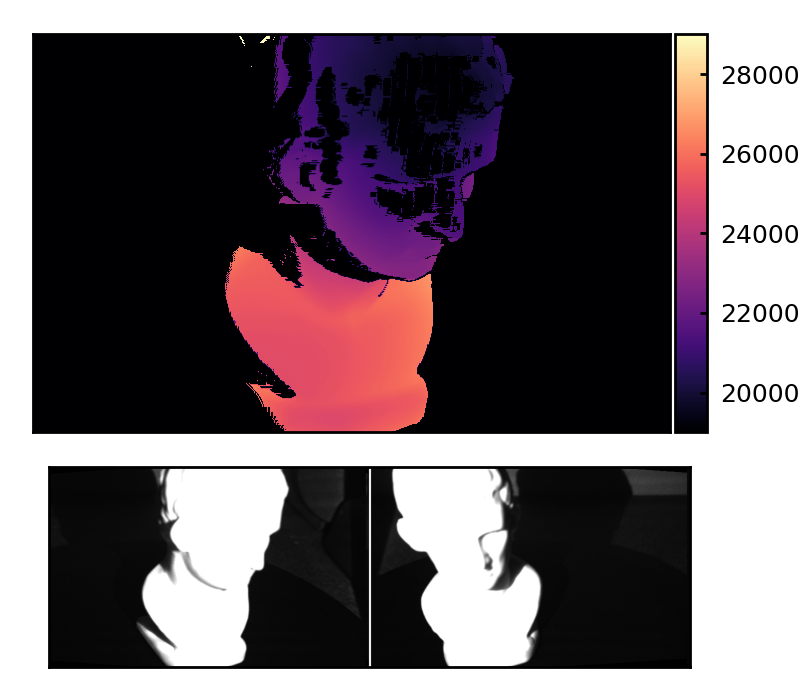
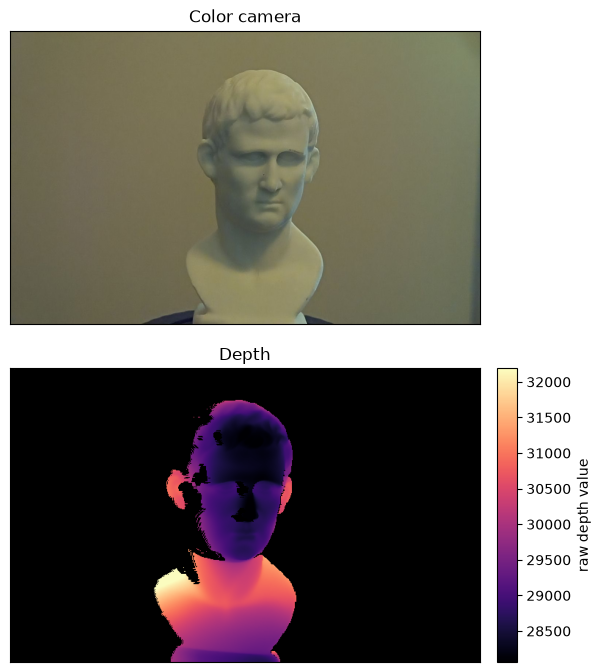
Update README for color over WiFi, with a new depth + color figure
The README figure is now a depth image and the color image captured at the
same time, both over WiFi, made by examples/readme_figure.py. The sample
usage shows that capture, and the text no longer says color needs USB.

- Default exposure is 12000 in the sample and the figure script; 6000 is
  too dark for this scene (most frames had no depth).
- Known Issues: ~4Hz depth and color rate and why, projector on during
  color capture, color auto-exposure settling, warm-light color cast, and
  raw depth values.
- Power supply note, and OpenCV/matplotlib listed as optional.

diff --git a/examples/readme_figure.py b/examples/readme_figure.py
@@ -83,7 +83,7 @@ def make_figure(depth, color, fname):
 if (__name__ == "__main__"):
     parser = argparse.ArgumentParser(description = "Capture the README depth + color figure.")
     parser.add_argument("--ip", required = True, help = "Scanner IP address.")
-    parser.add_argument("--exposure", type = int, default = 6000, help = "Depth exposure (default 6000).")
+    parser.add_argument("--exposure", type = int, default = 12000, help = "Depth exposure (default 12000).")
     parser.add_argument("--frames", type = int, default = 8, help = "Depth frames to choose from (default 8).")
     parser.add_argument("--out", default = "images/image.png", help = "Output file (default images/image.png).")
     args = parser.parse_args()

diff --git a/README.md b/README.md
@@ -1,17 +1,26 @@
 ## revoscan-python ##
-![depth image](images/image.png?raw=true "")
+![depth and color images](images/image.png?raw=true "")
 
-A python module for interfacing with a Revopoint scanner. It should work on any OS
-as all communcation with the scanner happens via HTTP.
+A python module for interfacing with a Revopoint scanner. Depth images, color
+images, exposure and gain are all handled over WIFI via HTTP, which should work on
+any OS.
 
 The scanner should be powered on and connected to WIFI. In general it is easier to
 configure the scanner to join your WIFI network instead of being it's own network.
 You can do this in the Revoscan software by setting the scanner to be a client.
+The scanner draws more power while scanning, if it reboots when a scan starts try
+a USB power supply that is rated for more current.
 
-The code has been tested with Python3.10 and Revopoint MINI scanner running v7.6.9.0816.
+The code has been tested with Python3.10 / Python3.12 and Revopoint MINI scanner running v7.6.9.0816.
 
 ## Sample Usage ##
+
+This captures a depth image and the corresponding color image, as in the figure
+above. [examples/readme_figure.py](examples/readme_figure.py) is the script that
+made the figure.
+
 ```
+import numpy
 import revopoint_python.revopoint as rppy
 
 rp = rppy.Revopoint(ipAddr = "192.168.1.14")
@@ -19,23 +28,51 @@ rp = rppy.Revopoint(ipAddr = "192.168.1.14")
 # get firmware(?) version.
 print(rp.get_version())
 
+# close any stream left open by an earlier session.
+rp.close_streams()
+
 # configure for MINI.
 rp.config_MINI()
 
-# set the gain of the depth camera.
+# set the gain and a manual exposure for the depth cameras. The exposure is the
+# main depth-quality setting, ~3000-15000 is a good starting range.
 rp.set_depth_gain(1)
+rp.set_exposure(12000)
 
-# acquire two depth images, this returns a dictionary with the
-# depth images and the images from the depth cameras.
-images = rp.get_images(2)
+# acquire eight depth images and the color camera images at the same time,
+# this returns a dictionary with the depth images, the images from the depth
+# cameras and the color images. The scanner cycles through several exposure
+# states so some depth frames are sparse, keep the one with the most valid
+# pixels.
+images = rp.get_images(8, color = True)
+depth = max(images["depth"], key = numpy.count_nonzero)
+color = images["color"][-1]
+rp.close_streams()
+
+# return exposure control to the scanner.
+rp.set_auto_exposure(True)
 ```
+
+To capture only color images use `rp.get_color_image()`. This can also read the
+color camera over USB (`usb = True`, Linux only).
 
 ## Known Issues ##
 
-* The scan rate is well below 10Hz.
-* The images from the color USB camera are not available.
+* The scan rate is about 4Hz, well below 10Hz. It is limited by how long the
+  projector spends on each of its 12 patterns (~20ms), not by WIFI bandwidth, so
+  the compressed stream does not help. See [notes/depth-pipeline.md](notes/depth-pipeline.md).
+  The color camera also runs at about 4Hz over WIFI.
+* The projector is on during color capture, because the color camera only
+  streams while a depth stream is running.
+* After the scanner powers up the color camera's auto-exposure takes about 5
+  seconds to settle. By default (`settle = True`) the color capture waits for it.
+* The color camera's white balance is automatic, under warm indoor lighting
+  the images look quite yellow.
+* The depth values are raw, conversion to millimeters is not done yet.
 
 ## Dependencies ##
 
 * [numpy](https://www.numpy.org/)
 * [requests](https://requests.readthedocs.io/)
+* [OpenCV](https://opencv.org/) (only for decoding the color images)
+* [matplotlib](https://matplotlib.org/) (only for examples/readme_figure.py)
